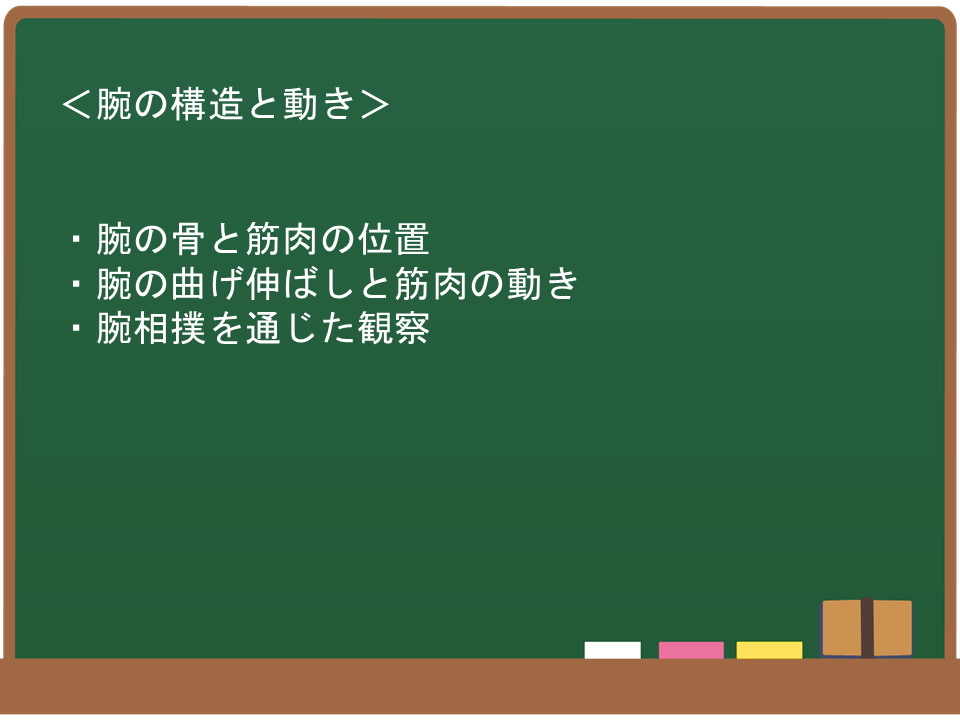
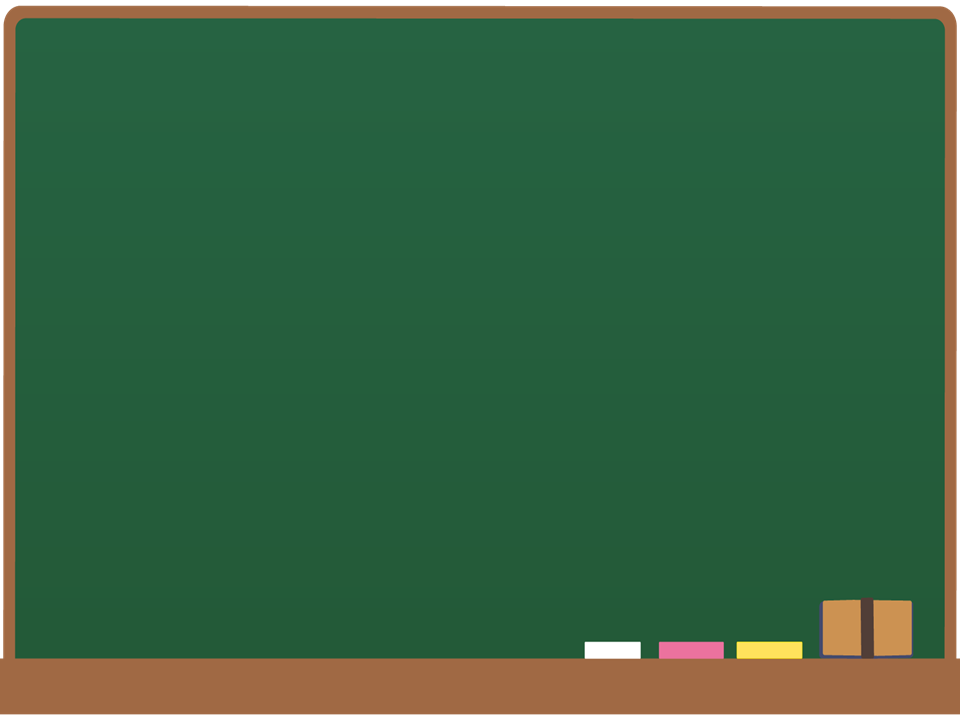
空のスライド0を追加した

Changed region(s): [[0.0938, 0.3056, 0.5938, 0.4889], [0.0625, 0.1222, 0.4062, 0.1833]]

diff --git a/json_to_pptx.py b/json_to_pptx.py
@@ -59,7 +59,15 @@ def create_presentation(lesson_data):
 
     # 背景に使用する画像のパス
     background_img_path = os.path.join(os.path.dirname(os.path.abspath(__file__)), 'image//kokuban.png')
-
+    # 新しい空のスライド（slide0）を追加
+    slide0 = prs.slides.add_slide(prs.slide_layouts[5])  # 空のレイアウト
+    # 背景画像を追加
+    width, height = prs.slide_width, prs.slide_height
+    enlarged_width, enlarged_height = width * 1.03, height * 1.03
+    left = (width - enlarged_width)/2  # 中央に配置
+    top = (height - enlarged_height)/2
+    slide0.shapes.add_picture(background_img_path, left, top, enlarged_width, enlarged_height)
+    
     for section in lesson_data:
         if '板書' in section:
             # 新しいスライドを追加
